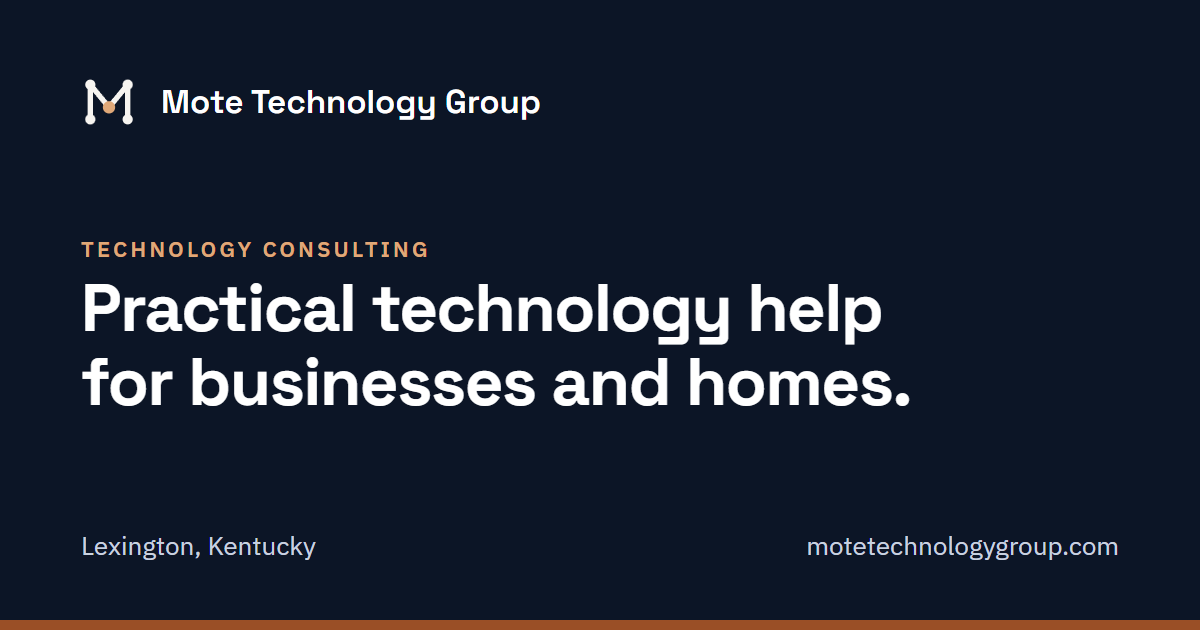
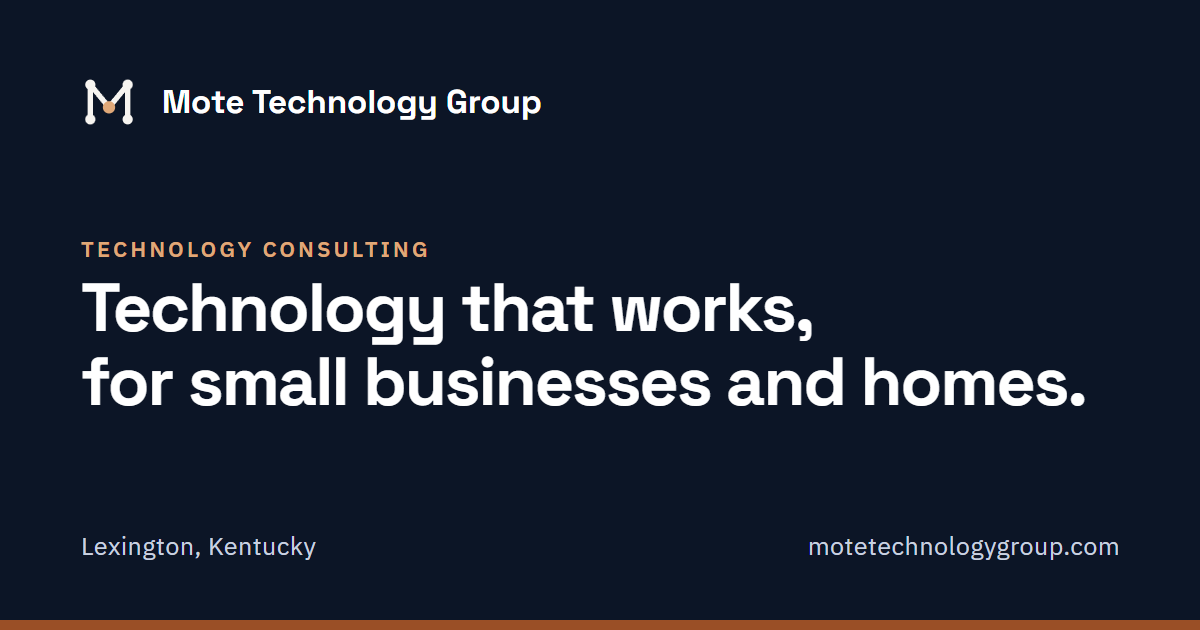
Share image: current tagline
og-image.png now carries the site's tagline, "Technology that works, for
small businesses and homes.", in the same design (1200x630, no metadata).
The image's alt text on the five pages that use it says the same.

diff --git a/home/index.html b/home/index.html
@@ -19,7 +19,7 @@
 <meta property="og:image" content="https://motetechnologygroup.com/og-image.png">
 <meta property="og:image:width" content="1200">
 <meta property="og:image:height" content="630">
-<meta property="og:image:alt" content="Mote Technology Group: practical technology help for businesses and homes, Lexington, Kentucky">
+<meta property="og:image:alt" content="Mote Technology Group: technology that works, for small businesses and homes. Lexington, Kentucky">
 <meta name="twitter:card" content="summary_large_image">
 <meta name="twitter:site" content="@MoteTechnology">
 <meta name="twitter:title" content="Home Tech Help in Lexington, KY | Mote Technology Group">

diff --git a/business/index.html b/business/index.html
@@ -19,7 +19,7 @@
 <meta property="og:image" content="https://motetechnologygroup.com/og-image.png">
 <meta property="og:image:width" content="1200">
 <meta property="og:image:height" content="630">
-<meta property="og:image:alt" content="Mote Technology Group: practical technology help for businesses and homes, Lexington, Kentucky">
+<meta property="og:image:alt" content="Mote Technology Group: technology that works, for small businesses and homes. Lexington, Kentucky">
 <meta name="twitter:card" content="summary_large_image">
 <meta name="twitter:site" content="@MoteTechnology">
 <meta name="twitter:title" content="Small Business Tech Consulting | Mote Technology Group">

diff --git a/faq/index.html b/faq/index.html
@@ -19,7 +19,7 @@
 <meta property="og:image" content="https://motetechnologygroup.com/og-image.png">
 <meta property="og:image:width" content="1200">
 <meta property="og:image:height" content="630">
-<meta property="og:image:alt" content="Mote Technology Group: practical technology help for businesses and homes, Lexington, Kentucky">
+<meta property="og:image:alt" content="Mote Technology Group: technology that works, for small businesses and homes. Lexington, Kentucky">
 <meta name="twitter:card" content="summary_large_image">
 <meta name="twitter:site" content="@MoteTechnology">
 <meta name="twitter:title" content="Frequently Asked Questions | Mote Technology Group">

diff --git a/privacy/index.html b/privacy/index.html
@@ -19,7 +19,7 @@
 <meta property="og:image" content="https://motetechnologygroup.com/og-image.png">
 <meta property="og:image:width" content="1200">
 <meta property="og:image:height" content="630">
-<meta property="og:image:alt" content="Mote Technology Group: practical technology help for businesses and homes, Lexington, Kentucky">
+<meta property="og:image:alt" content="Mote Technology Group: technology that works, for small businesses and homes. Lexington, Kentucky">
 <meta name="twitter:card" content="summary_large_image">
 <meta name="twitter:site" content="@MoteTechnology">
 <meta name="twitter:title" content="Privacy Policy | Mote Technology Group">

diff --git a/index.html b/index.html
@@ -19,7 +19,7 @@
 <meta property="og:image" content="https://motetechnologygroup.com/og-image.png">
 <meta property="og:image:width" content="1200">
 <meta property="og:image:height" content="630">
-<meta property="og:image:alt" content="Mote Technology Group: practical technology help for businesses and homes, Lexington, Kentucky">
+<meta property="og:image:alt" content="Mote Technology Group: technology that works, for small businesses and homes. Lexington, Kentucky">
 <meta name="twitter:card" content="summary_large_image">
 <meta name="twitter:site" content="@MoteTechnology">
 <meta name="twitter:title" content="Mote Technology Group">
